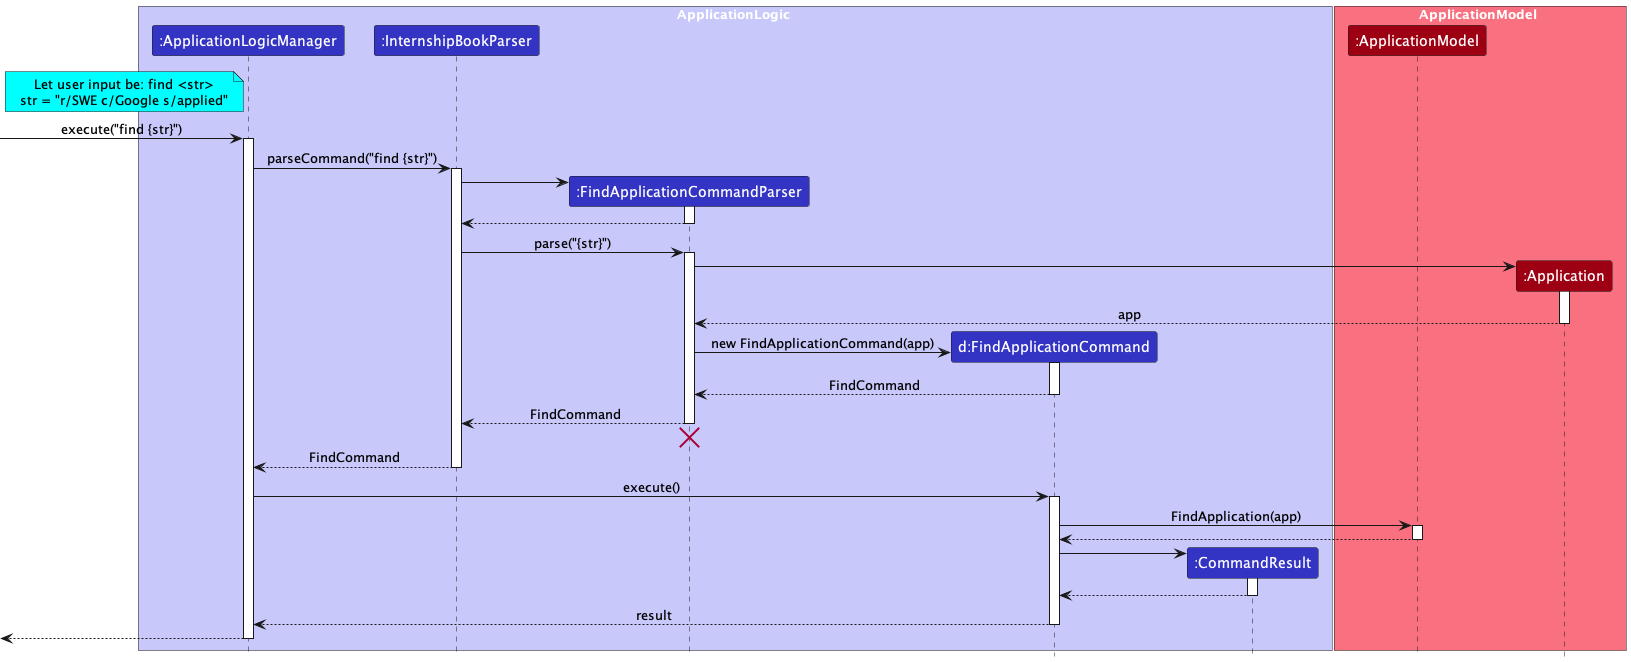
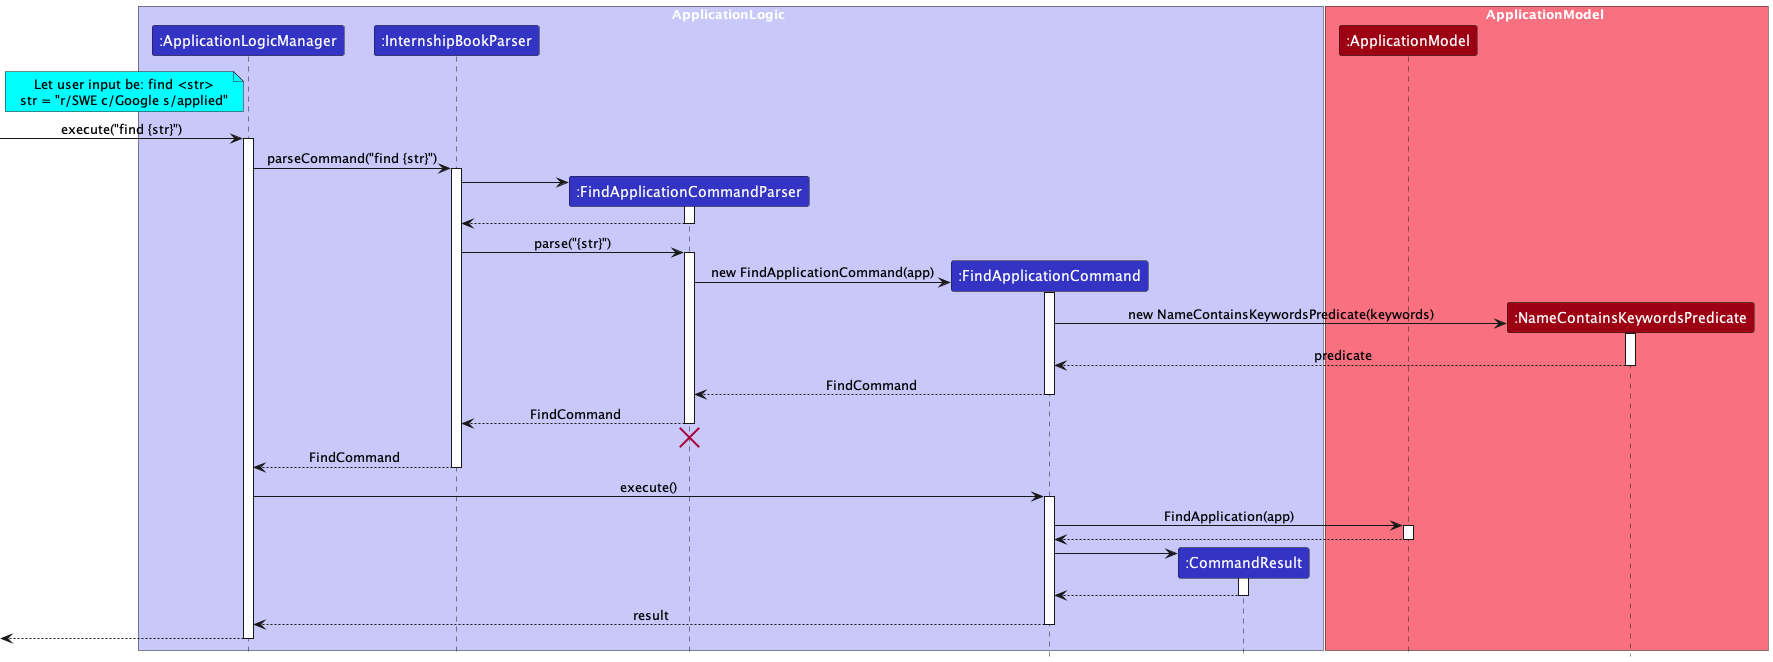
Modify find feature in DG

diff --git a/docs/DeveloperGuide.md b/docs/DeveloperGuide.md
@@ -11,12 +11,12 @@ title: Developer Guide
 
 ## **1. Introduction**
 
-### 1.1 About sprINT 
+### 1.1 About sprINT
 
-**sprINT** is an **internship-tracking application** that was created to assist students in their internship hunt. 
+**sprINT** is an **internship-tracking application** that was created to assist students in their internship hunt.
 
-Students often face a great administrative burden in keeping track of the high volume of job or internship 
-applications. With sprINT, students can easily manage details of their internship applications, including the company, 
+Students often face a great administrative burden in keeping track of the high volume of job or internship
+applications. With sprINT, students can easily manage details of their internship applications, including the company,
 contacts, status and task deadlines.
 
 ### 1.2 About this guide
@@ -25,7 +25,7 @@ This developer guide details the high-level software architecture and design dec
 It is intended for:
 
 * Advanced users who wish to get a better understanding of sprINT's features
-* Present and future developers, designers and testers of sprINT 
+* Present and future developers, designers and testers of sprINT
 
 --------------------------------------------------------------------------------------------------------------------
 
@@ -299,15 +299,16 @@ sequence diagram:
 
 #### About
 The "find" command is a tool that enables users to search for a specific application within the internship book.
+
 Users can locate the application by providing its index and optionally using the parameters "r/", "c/", and "s/" to 
 refine their search. These parameters correspond to the role, company, and status fields in the internship book
 , allowing for customized searches. Without any of the required prefixes, it will do a global search for the search
 keyword in all fields of the applications.
 
 #### Usage
-To find an application in sprINT, simply issue the command in the following format:
+To find an application in sprINT, issue the command in the following format:
 
-find [r/role] [c/companyName] [s/status]
+`find [r/role] [c/companyName] [s/status]`
 
 Here's a breakdown of what each prefix means:
 
@@ -315,7 +316,7 @@ Here's a breakdown of what each prefix means:
 - `c/` - this prefix is used to find the company name in the internship.
 - `s/` - this prefix is used to find the status of your application, such as "interested", "applied", "rejected", or "offered".
 
-#### [Work in Progress] Implementation
+#### Implementation
 The find application mechanism is facilitated by the Ui, Logic and Model components of sprINT.
 
 Given below are the steps that illustrate the interaction between the components when it receives a valid add
@@ -327,28 +328,14 @@ application command from the user.
 4. The `InternshipBookParser` in turn creates an `FindApplicationCommandParser` that is responsible for a specific purpose of
    parsing user commands for adding applications.
 5. The `InternshipBookParser` then passes the string input to the `FindApplicationCommandParser` via the `parse()` method.
-6. The `FindApplicationCommandParser` then identifies the different prefixes in the string and creates the fields for the application.
-
-<div markdown="span" class="alert alert-info">:information_source: **Note:** The field entities that are minimally created include
-the `Role`, `CompanyName`, `CompanyEmail` and `Status`. These also coincide with the compulsory fields that the user
-must provide in the input when using the add application feature.
-
-</div>   
-
-7. These fields will then be used to create an `Application` instance.
-8. The newly created `Application` instance will then be used to create an `FindApplicationCommand`. This command instances
-   is returned back to `ApplicationLogicManager`.
+6. The `FindApplicationCommandParser` then identifies the different prefixes (if any) in the string and creates a list of keywords.
+7. The `parse()` method will return a `FindApplicationCommand(new NameContainsKeywordsPredicate(keywords))`.
+8. This `FindApplicationCommand` is returned back to `ApplicationLogicManager`.
 9. The `ApplicationLogicManager` then calls the `execute()` method of the `FindApplicationCommand`. This initializes the execution
    the logic behind adding the associated application instance to the existing `InternshipBook`.
 10. An instance of `CommandResult` is created which contains the information that will be displayed back to the User after
     the execution of the command.
 11. The Ui component displays the contents of the `CommandResult` to the User.
-
-<div markdown="span" class="alert alert-info">:information_source: **Note:** The CommandResult will display the newly updated
-application list to the User, should the add command have executed successfully. If an error occurred during execution, the corresponding
-exception that was thrown and the error message will be displayed to the user.
-
-</div> 
 
 For a more graphical illustration of how an add application command is processed, please refer to the following
 sequence diagram:
